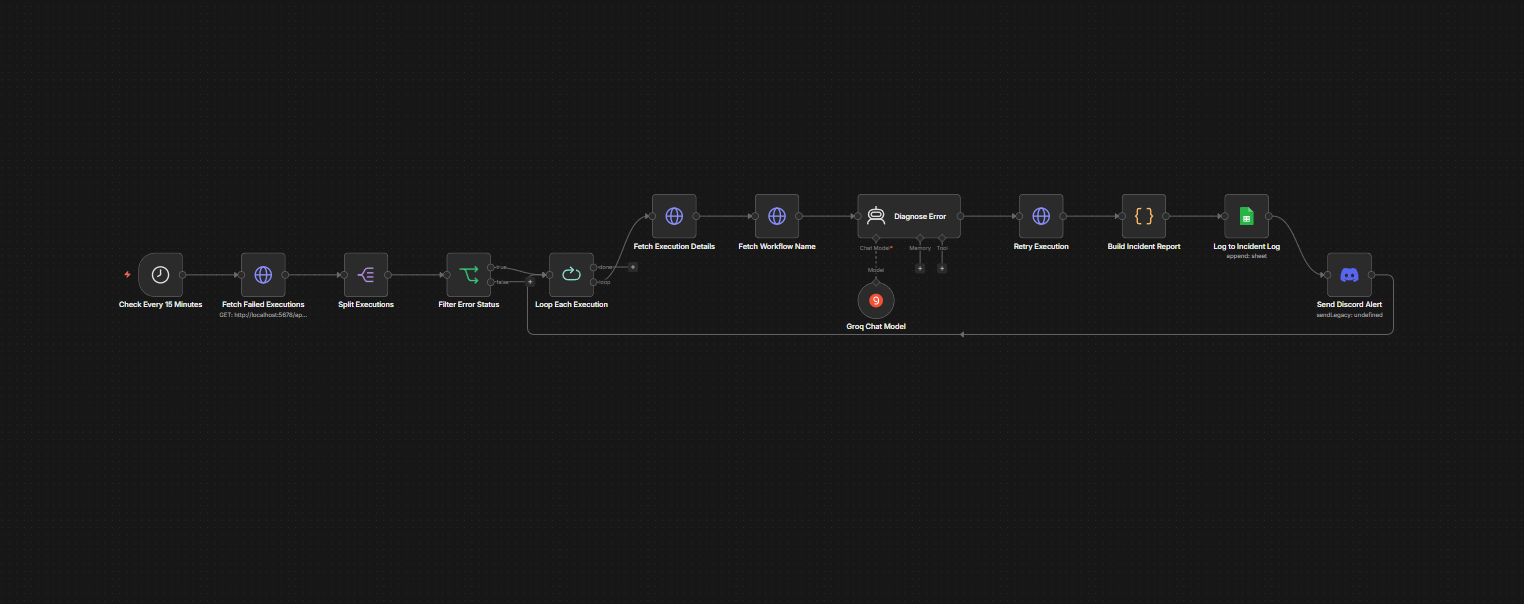
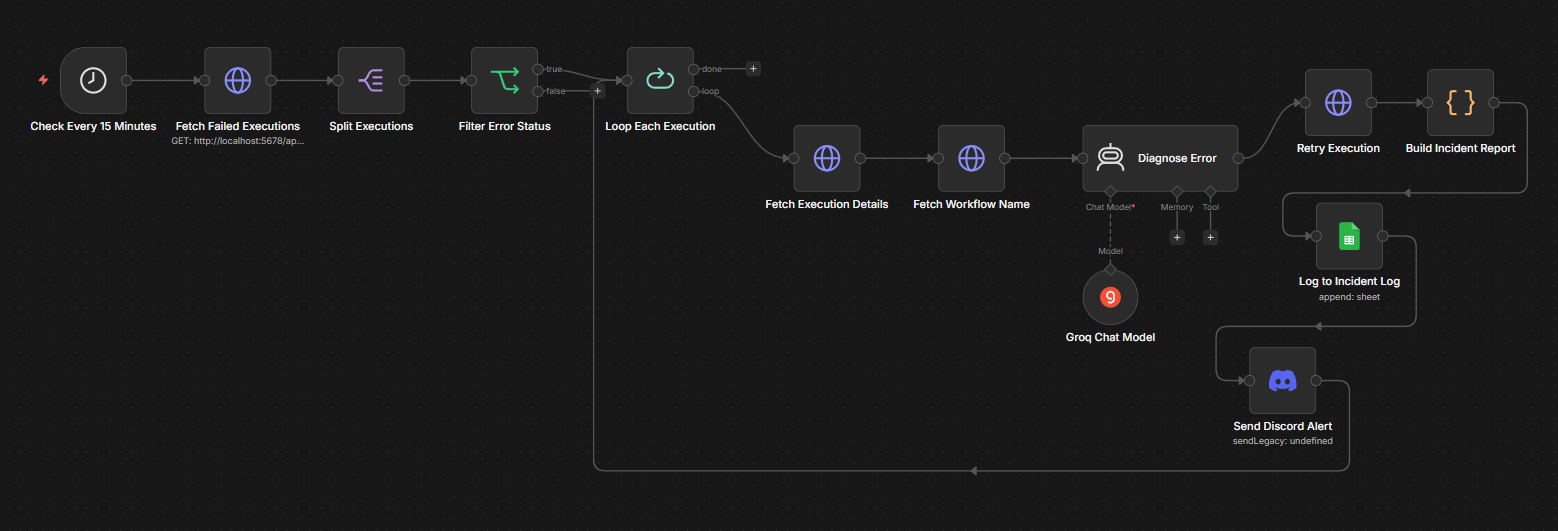
Update GHOST/CIPHER screenshots, add dual APEX workflow images
- Replace ghost.png and cipher.png with new screenshots
- Add apex-reply.png (Reply Handler & Reporting workflow)
- APEX modal now shows both workflows stacked with Workflow 1/2 labels

diff --git a/app/page.tsx b/app/page.tsx
@@ -39,14 +39,13 @@ const SERVICES = [
 ]
 
 
-type AutomationItem = { id: string; name: string; subtitle: string; image: string; summary: string; imageScale?: number }
+type AutomationItem = { id: string; name: string; subtitle: string; image: string; images?: string[]; summary: string; imageScale?: number }
 const AUTOMATIONS: AutomationItem[] = [
   {
     id: 'ghost',
     name: 'GHOST',
     subtitle: 'Self-Healing Workflow Monitor',
     image: '/workflows/ghost.png',
-    imageScale: 1.6,
     summary: 'A fully autonomous monitoring system that checks every 15 minutes for failed n8n executions. For each failure, AI diagnoses the root cause, retries the execution automatically, logs the incident to Google Sheets, and fires a Discord alert with the suggested fix — all without human input.',
   },
   {
@@ -54,6 +53,7 @@ const AUTOMATIONS: AutomationItem[] = [
     name: 'APEX',
     subtitle: 'Lead Outreach System',
     image: '/workflows/apex.png',
+    images: ['/workflows/apex.png', '/workflows/apex-reply.png'],
     summary: 'A two-workflow outreach system that reads new leads from Google Sheets, uses AI to write personalized emails, and sends them via Gmail. A second workflow monitors replies, classifies them as Interested, Not Interested, or Question, then routes each one automatically — hot lead alerts to Discord, auto-replies to questions, status updates for rejections.',
   },
   {
@@ -61,7 +61,6 @@ const AUTOMATIONS: AutomationItem[] = [
     name: 'CIPHER',
     subtitle: 'AI Content Factory',
     image: '/workflows/cipher.png',
-    imageScale: 1.5,
     summary: 'Send one topic via webhook and get five ready-to-publish content pieces in return: a full blog post, a LinkedIn post, a Twitter thread, an email newsletter, and an AI image prompt. All five are saved to Google Sheets and delivered to your inbox in a single formatted digest.',
   },
   {
@@ -273,16 +272,23 @@ function AutomationCard({ item, index }: { item: AutomationItem; index: number }
                 >
                   ×
                 </button>
-                <div style={{ overflow: 'hidden', borderBottom: '1px solid var(--border)' }}>
-                  <img
-                    src={item.image} alt={item.name}
-                    style={{
-                      width: '100%', display: 'block',
-                      transform: item.imageScale ? `scale(${item.imageScale})` : undefined,
-                      transformOrigin: 'center center',
-                    }}
-                  />
-                </div>
+                {(item.images ?? [item.image]).map((src, i) => (
+                  <div key={i} style={{ overflow: 'hidden', borderBottom: '1px solid var(--border)' }}>
+                    {item.images && item.images.length > 1 && (
+                      <p style={{ fontSize: 11, fontWeight: 700, letterSpacing: '0.08em', color: 'var(--accent)', textTransform: 'uppercase', padding: '10px 16px 0', margin: 0 }}>
+                        Workflow {i + 1} of {item.images.length}
+                      </p>
+                    )}
+                    <img
+                      src={src} alt={`${item.name} workflow ${i + 1}`}
+                      style={{
+                        width: '100%', display: 'block',
+                        transform: item.imageScale ? `scale(${item.imageScale})` : undefined,
+                        transformOrigin: 'center center',
+                      }}
+                    />
+                  </div>
+                ))}
                 <div style={{ padding: '28px 32px' }}>
                   <h3 style={{ fontSize: 22, fontWeight: 700, color: 'var(--text)', letterSpacing: '-0.03em', margin: '0 0 16px' }}>
                     {item.subtitle}